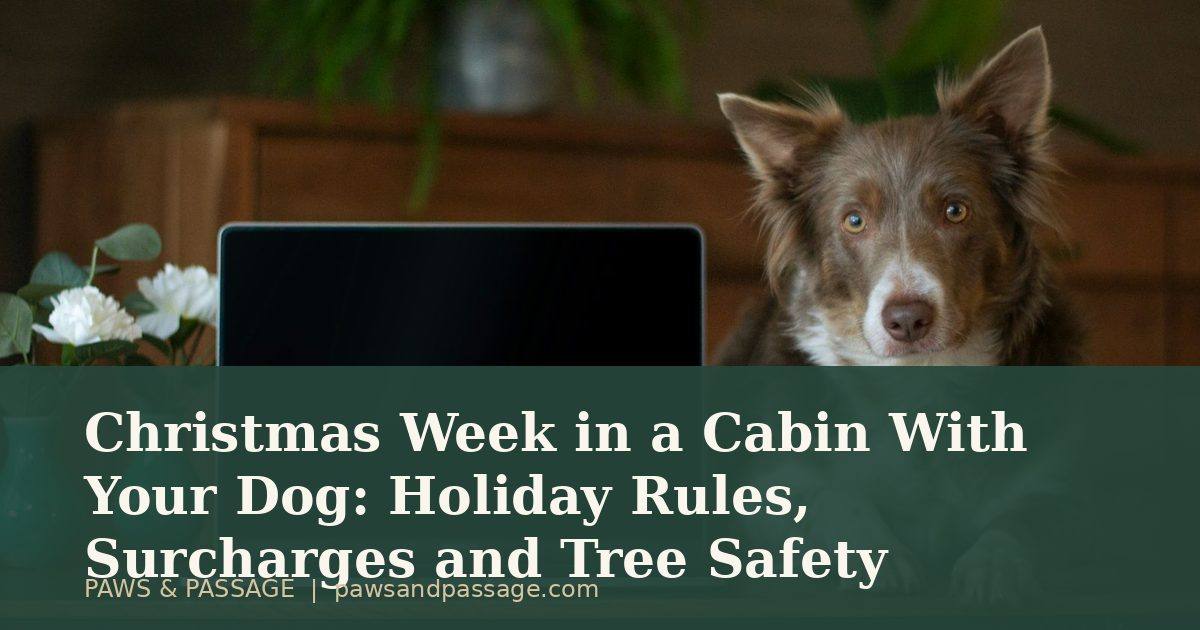
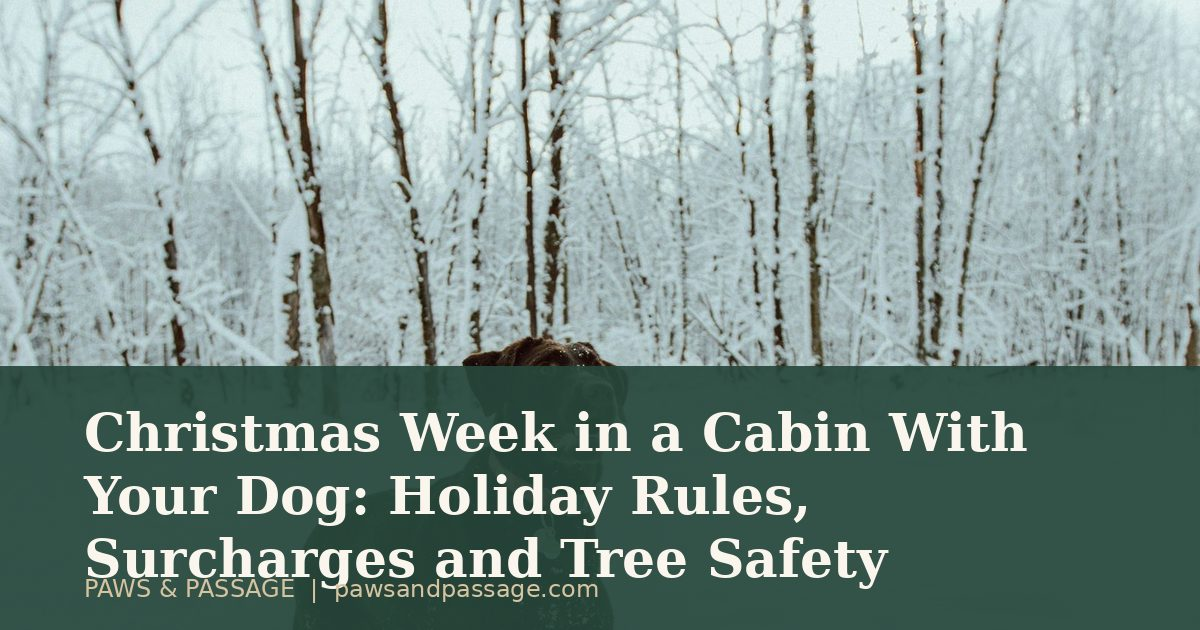
Publish the Christmas-week article (fact-checked) with its own hero photo; refresh share images
Claude-Session: https://claude.ai/code/session_01Wtg1HH8F4yVLgmmRX8QVNV

diff --git a/src/lib/images.ts b/src/lib/images.ts
@@ -49,6 +49,8 @@ import guideDamageCharge from "@/assets/guide-damage-charge.jpg";
 import guideDamageChargeCard from "@/assets/guide-damage-charge-card.jpg";
 import guideNoPetFee from "@/assets/guide-no-pet-fee.jpg";
 import guideNoPetFeeCard from "@/assets/guide-no-pet-fee-card.jpg";
+import guideChristmasWeek from "@/assets/guide-christmas-week.jpg";
+import guideChristmasWeekCard from "@/assets/guide-christmas-week-card.jpg";
 
 // Editorial stock photographs (Unsplash License), shown for illustration only and never as pictures of a specific rental.
 // Photographer credits live in src/content/image-credits.ts.
@@ -81,6 +83,7 @@ const stockImages = {
   "guide-senior": { src: guideSenior, card: guideSeniorCard, alt: "An older black Labrador with a graying muzzle resting its head on the arm of a couch, looking calm and sleepy" },
   "guide-damage-charge": { src: guideDamageCharge, card: guideDamageChargeCard, alt: "A fluffy golden-tan dog sitting in the open back of a packed car, with suitcases, bags and a cooler loaded behind it, ready to head home" },
   "guide-no-pet-fee": { src: guideNoPetFee, card: guideNoPetFeeCard, alt: "A Shiba Inu puppy peeking out of a mesh travel carrier, ready to go on a trip" },
+  "guide-christmas-week": { src: guideChristmasWeek, card: guideChristmasWeekCard, alt: "A chocolate Labrador with a coral collar standing chest-deep in fresh snow, looking up with its mouth open in front of a snowy wood" },
 } as const satisfies Record<string, StockImage>;
 
 export const images: { [K in keyof typeof stockImages]: StockImage } = stockImages;

diff --git a/src/content/image-credits.ts b/src/content/image-credits.ts
@@ -29,4 +29,5 @@ export const imageCredits: ImageCredit[] = [
   { key: "guide-senior", photographer: "Jack Plant", unsplashUrl: "https://unsplash.com/photos/a-large-black-dog-laying-on-top-of-a-couch-AGKt39kI1Ig" },
   { key: "guide-damage-charge", photographer: "Jimmy Conover", unsplashUrl: "https://unsplash.com/photos/brown-long-coated-dog-on-car-seat-ajPr3kQBWFw" },
   { key: "guide-no-pet-fee", photographer: "Dex Ezekiel", unsplashUrl: "https://unsplash.com/photos/-nOCYgeOtX8" },
+  { key: "guide-christmas-week", photographer: "YBag Media", unsplashUrl: "https://unsplash.com/photos/black-labrador-retriever-on-snow-covered-ground-during-daytime-se3pSeT0mdM" },
 ];

diff --git a/content/guides/christmas-week-in-a-cabin-with-a-dog.md b/content/guides/christmas-week-in-a-cabin-with-a-dog.md
@@ -5,12 +5,12 @@ seoDescription: Booking a cabin with your dog for Christmas? What to ask about m
 dek: What to ask before you book a holiday week, which holiday hazards matter for dogs, and how to keep a tree and a pile of gifts from becoming an emergency in a house you do not own.
 category: Planning
 states: []
-status: draft
+status: published
 author: Paws & Passage Editors
 publishedOn: 2026-11-18
 lastReviewed: 2026-11-18
 readingMinutes: 9
-heroImage: guide-pet-fees
+heroImage: guide-christmas-week
 faqs:
   - q: Do cabin rentals charge extra for dogs at Christmas?
     a: None of the 38 manager pet pages in our reading (a convenience sample, read 2026-11-18) stated a holiday pet surcharge. That is not proof none exist, so ask for the full total for your exact dates. One manager we read does say holidays carry higher nightly rates and a 5-night Christmas minimum.
@@ -139,11 +139,11 @@ research:
     - Hazard guidance tied to the ASPCA, Pet Poison Helpline, NFPA and PetMD pages we read.
     - A tree and gift plan written for a house you do not own, plus an emergency-vet lookup checklist.
   angle: A dog, a fireplace and a tree to knock over; treat Christmas week as a booking-terms and hazard-planning job in an unfamiliar place.
-  followUps:
-    - Re-check manager holiday wording each October and update the examples.
-    - Add a photographed original hero image.
+  followUps: []
   unverified: []
   researchComplete: true
+approvedBy: Paws & Passage Editors
+approvedOn: 2026-11-18
 ---
 
 ## The short answer
